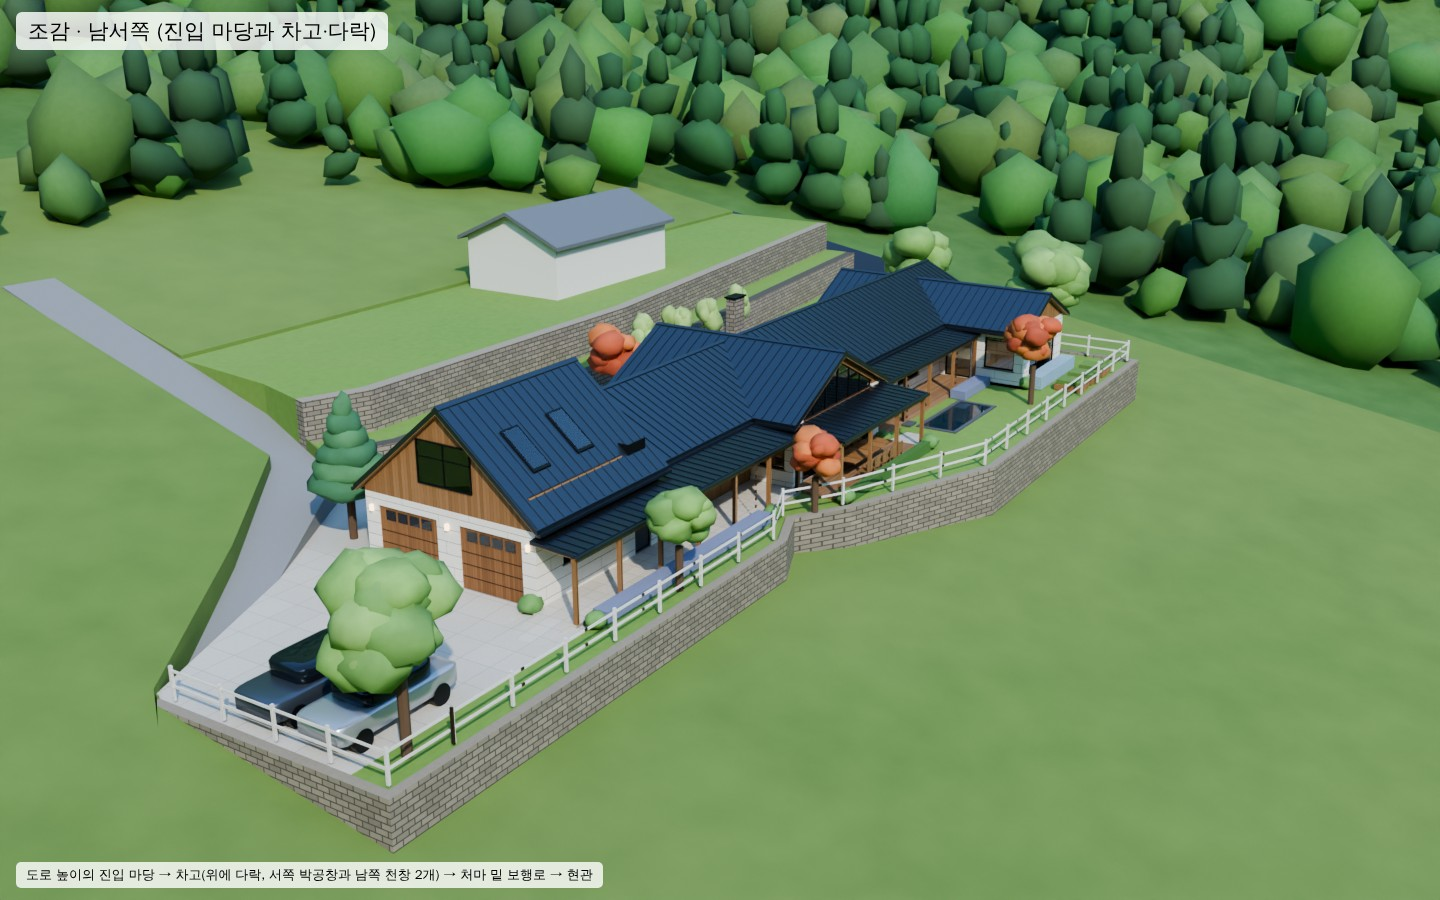
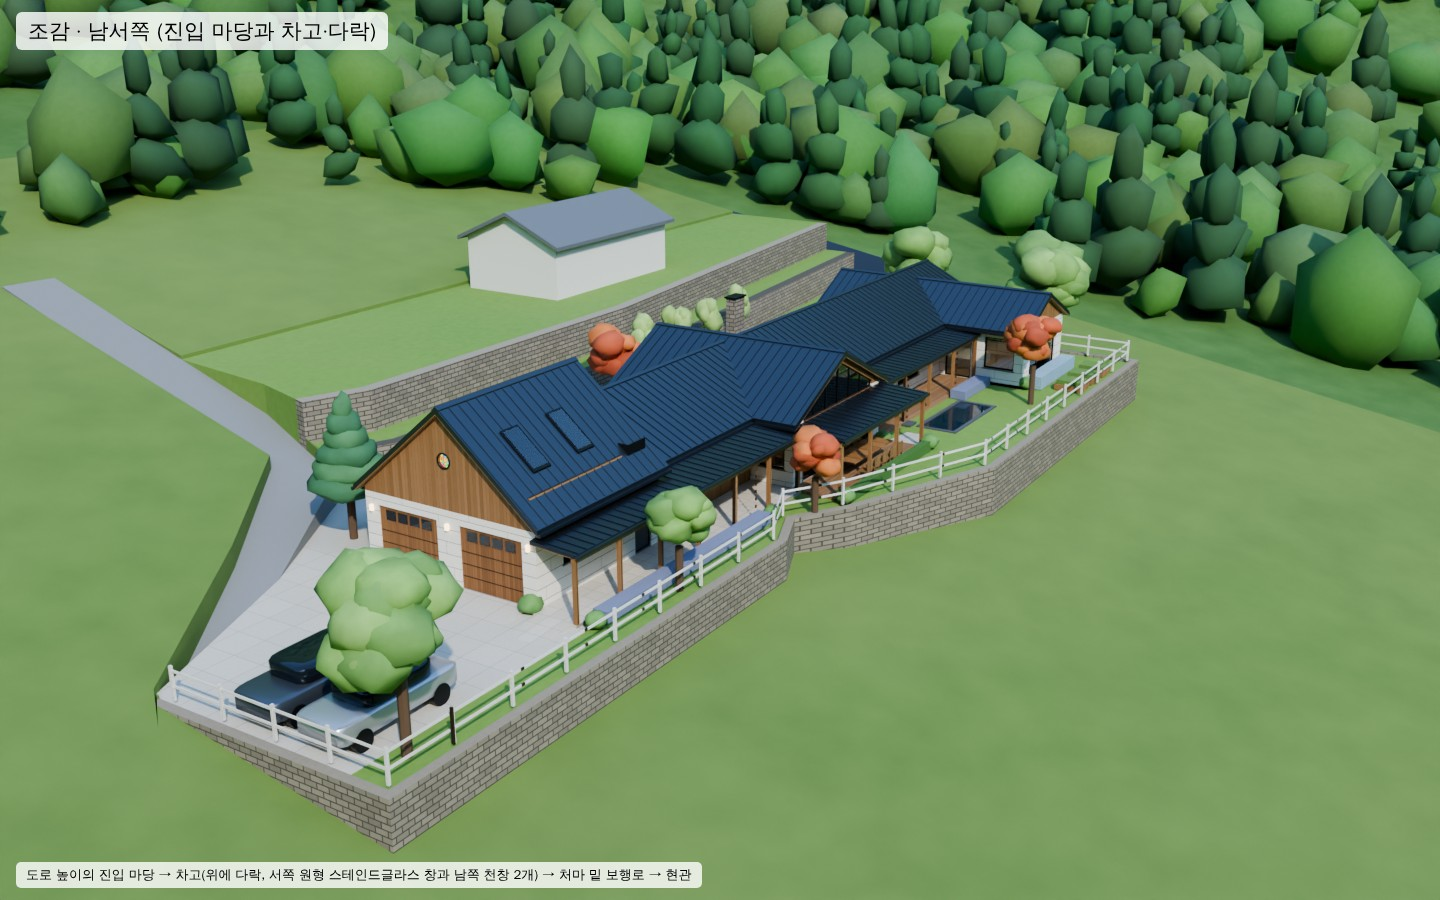
Plan C: round stained-glass attic window (50 cm) and close-up view
Claude-Session: https://claude.ai/code/session_01V2KT19EFwobJ5RF8mtFq11

Changed region(s): [[0.2188, 0.9333, 0.5, 0.9956], [0.2812, 0.4667, 0.3438, 0.56]]

diff --git a/house-redesign/C안/src/blender/scene.py b/house-redesign/C안/src/blender/scene.py
@@ -298,6 +298,41 @@ def car(x0, y0, mat):
             bpy.ops.mesh.primitive_cylinder_add(radius=0.34, depth=0.24, location=(x0 + dx, y0 + dy, 2.85 + 0.36), rotation=(math.pi / 2, 0, 0)); bpy.context.object.data.materials.append(MATS['frame'])
 car(-17.2, -12.3, 'car'); car(-17.2, -14.8, 'car2')
 
+# ------------------------------------------------------------------ 다락 원형 스테인드글라스 (지름 500mm)
+def stained_glass():
+    m, nt, b = new_mat('stained')
+    tc = N(nt, 'ShaderNodeTexCoord'); sp_ = N(nt, 'ShaderNodeSeparateXYZ'); nt.links.new(tc.outputs['Object'], sp_.inputs[0])
+    x, y = sp_.outputs[0], sp_.outputs[1]
+    r = math_(nt, 'SQRT', math_(nt, 'ADD', math_(nt, 'MULTIPLY', x, x), math_(nt, 'MULTIPLY', y, y)))
+    ang = math_(nt, 'ADD', math_(nt, 'DIVIDE', math_(nt, 'ARCTAN2', y, x), 2 * math.pi), 0.5)
+    rr = math_(nt, 'DIVIDE', r, 0.084); ring = math_(nt, 'FLOOR', rr)
+    nsec = math_(nt, 'MULTIPLY', ring, 6.0)                                   # 고리마다 0, 6, 12 조각
+    sv = math_(nt, 'ADD', math_(nt, 'MULTIPLY', ang, nsec), math_(nt, 'MULTIPLY', ring, 0.5))
+    sec = math_(nt, 'FLOOR', sv)
+    wn = N(nt, 'ShaderNodeTexWhiteNoise', noise_dimensions='1D'); nt.links.new(math_(nt, 'ADD', math_(nt, 'MULTIPLY', ring, 31.0), math_(nt, 'MULTIPLY', sec, 7.0)), wn.inputs['W'])
+    hsv = N(nt, 'ShaderNodeCombineColor', mode='HSV'); nt.links.new(wn.outputs['Value'], hsv.inputs[0]); hsv.inputs[1].default_value = 0.85; hsv.inputs[2].default_value = 0.9
+    col = mixc(nt, math_(nt, 'LESS_THAN', ring, 0.5), hsv.outputs[0], (1.0, 0.62, 0.12))    # 가운데는 호박색
+    fs = math_(nt, 'FRACT', sv)
+    lead_s = math_(nt, 'MULTIPLY', math_(nt, 'MAXIMUM', math_(nt, 'LESS_THAN', fs, 0.05), math_(nt, 'GREATER_THAN', fs, 0.95)), math_(nt, 'GREATER_THAN', ring, 0.5))
+    fr = math_(nt, 'FRACT', rr)
+    lead_r = math_(nt, 'MULTIPLY', math_(nt, 'MAXIMUM', math_(nt, 'LESS_THAN', fr, 0.07), math_(nt, 'GREATER_THAN', fr, 0.93)), math_(nt, 'GREATER_THAN', rr, 0.5))
+    lead = math_(nt, 'MAXIMUM', lead_s, lead_r)
+    tr = N(nt, 'ShaderNodeBsdfTransparent'); nt.links.new(col, tr.inputs[0])
+    em = N(nt, 'ShaderNodeEmission'); nt.links.new(col, em.inputs[0]); em.inputs[1].default_value = 0.9
+    ad = N(nt, 'ShaderNodeAddShader'); nt.links.new(tr.outputs[0], ad.inputs[0]); nt.links.new(em.outputs[0], ad.inputs[1])
+    df = N(nt, 'ShaderNodeBsdfDiffuse'); df.inputs[0].default_value = (0.02, 0.02, 0.02, 1)
+    mx = N(nt, 'ShaderNodeMixShader'); nt.links.new(lead, mx.inputs[0]); nt.links.new(ad.outputs[0], mx.inputs[1]); nt.links.new(df.outputs[0], mx.inputs[2])
+    nt.links.new(mx.outputs[0], nt.nodes['Material Output'].inputs['Surface'])
+    MATS['stained_em'] = em
+    return m
+SGM = stained_glass()
+bpy.ops.mesh.primitive_cylinder_add(radius=0.25, depth=0.016, vertices=72, location=(-6.9, -9.4, 5.95 + 1.5), rotation=(0, math.pi / 2, 0))
+bpy.context.object.data.materials.append(SGM); GROUP_OBJS.setdefault('Roof', []).append(bpy.context.object)
+for xr in (-7.005, -6.745):
+    bpy.ops.mesh.primitive_torus_add(major_radius=0.265, minor_radius=0.03, major_segments=72, minor_segments=12, location=(xr, -9.4, 5.95 + 1.5), rotation=(0, math.pi / 2, 0))
+    o = bpy.context.object; o.data.materials.append(MATS['frame']); GROUP_OBJS['Roof'].append(o)
+    for p_ in o.data.polygons: p_.use_smooth = True
+
 # ------------------------------------------------------------------ 하늘·해·실내등
 w = bpy.data.worlds.new('W'); sc.world = w; w.use_nodes = True
 wnt = w.node_tree; bg = wnt.nodes['Background']; sky = wnt.nodes.new('ShaderNodeTexSky'); sky.sky_type = 'MULTIPLE_SCATTERING'
@@ -343,6 +378,7 @@ for v in json.load(open(VIEWS)):
         set_sun(v.get('az', 222), v.get('el', 40), 4.2, 0.30); lp, ls = 40.0, 3.0
     for L, pw in LIGHTS: L.data.energy = lp * pw
     MATS['lamp'].node_tree.nodes['Principled BSDF'].inputs['Emission Strength'].default_value = ls
+    MATS['stained_em'].inputs[1].default_value = 6.0 if mode == 'dusk' else (0.25 if mode == 'interior' else 0.9)
     sc.view_settings.exposure = v.get('exposure', 0.0)
     sc.cycles.samples = int(SAMPLES * v.get('sm', 1.0))
     sc.render.filepath = os.path.join(OUT, v['file'] + '.png')

diff --git a/house-redesign/C안/src/geom2.py b/house-redesign/C안/src/geom2.py
@@ -292,9 +292,6 @@ for k in range(16):
 add('Attic_Rail_W', '1F', 'frame', B(-1165, 8700, -1125, 12700), AT_FL, AT_FL + 1000)
 add('Attic_Rail_S', '1F', 'frame', B(-1165, 12700, -125, 12740), AT_FL, AT_FL + 1000)
 GPN = [0.0, -TAN_G, EAVE_G + TAN_G * (-5600)]; GPS = [0.0, TAN_G, EAVE_G + TAN_G * 13200]
-add('Attic_Window_Glass', 'Roof', 'glass', B(-7030, 8200, -7005, 10600), AT_FL + 600, AT_FL + 2050)
-for (d0, d1, z0, z1) in [(8200, 10600, 540, 600), (8200, 10600, 2050, 2110), (8200, 8260, 600, 2050), (10540, 10600, 600, 2050), (9375, 9425, 600, 2050), (8200, 10600, 1500, 1540)]:
-    add('Attic_Window_Frame', 'Roof', 'frame', B(-7050, d0, -7000, d1), AT_FL + z0, AT_FL + z1, minarea=300)
 for k, u0 in enumerate((-5600, -3200)):                                # 남측 지붕 천창 2개
     add(f'Skylight_{k + 1}_Frame', 'Roof', 'frame', B(u0, 10700, u0 + 900, 12100), sh(GPS, RT), sh(GPS, RT + 70))
     add(f'Skylight_{k + 1}_Glass', 'Roof', 'glass', B(u0 + 70, 10770, u0 + 830, 12030), sh(GPS, RT + 70), sh(GPS, RT + 90))
@@ -311,26 +308,21 @@ for (u, d, ox, oy) in [(-7000, 9400, -1, 0), (-7000, 5900, -1, 0), (-7000, 12900
     x, y = u + ox * 45, -d + oy * 45
     add('WallLamp', '1F', 'lamp', box(x - 60, y - 60, x + 60, y + 60) if True else None, FL + 2000, FL + 2220, minarea=300)
 
-# 다락 서측 박공벽에 창 개구부 내기
-_newP = []
-WIN = B(-7100, 8200, -6700, 10600)
-for p in P:
+# 다락 서측 박공벽에 지름 500mm 원형 창 개구부 (세로 띠로 근사, 유리와 창틀은 렌더러에서 추가)
+RW_C, RW_Z, RW_R = 9400, AT_FL + 1500, 250
+_old = list(P); P[:] = []
+for p in _old:
     xs_ = [q[0] for q in p['p']]
-    if p['g'] == 'Roof' and p['m'] == 'siding_wood' and min(xs_) >= -7001 and max(xs_) <= -6749:
-        poly = Polygon(p['p'])
-        keep, cut = poly.difference(WIN), poly.intersection(WIN)
-        n0 = len(P)
-        if not keep.is_empty: _newP.append(('k', p, keep))
-        if not cut.is_empty: _newP.append(('c', p, cut))
-    else:
-        _newP.append(('o', p, None))
-P[:] = []
-for kind, p, geom in _newP:
-    if kind == 'o': P.append(p)
-    elif kind == 'k': add(p['n'], p['g'], p['m'], geom, p['zb'], p['zt'])
-    else:
-        add(p['n'] + '_UnderWin', p['g'], p['m'], geom, p['zb'], AT_FL + 600)
-        add(p['n'] + '_OverWin', p['g'], p['m'], geom, AT_FL + 2050, p['zt'])
+    if not (p['g'] == 'Roof' and p['m'] == 'siding_wood' and min(xs_) >= -7001 and max(xs_) <= -6749):
+        P.append(p); continue
+    poly = Polygon(p['p'])
+    add(p['n'], p['g'], p['m'], poly.difference(B(-7100, RW_C - RW_R, -6700, RW_C + RW_R)), p['zb'], p['zt'])
+    for k in range(10):
+        d0 = RW_C - RW_R + 50 * k
+        half = math.sqrt(max(RW_R ** 2 - (d0 + 25 - RW_C) ** 2, 0))
+        cut = poly.intersection(B(-7100, d0, -6700, d0 + 50))
+        add(p['n'] + f'_Under{k}', p['g'], p['m'], cut, p['zb'], RW_Z - half, minarea=300)
+        add(p['n'] + f'_Over{k}', p['g'], p['m'], cut, RW_Z + half, p['zt'], minarea=300)
 
 # ================================================================= 대지
 add('Hillside', 'Site', 'hill', HILL, -14000, NAT)

diff --git a/house-redesign/C안/src/plan2.py b/house-redesign/C안/src/plan2.py
@@ -115,7 +115,8 @@ def plan():
     s.append(R(-6750, 7980, -125, 10820, fill='#c4d9ec', stroke='#2e6fa8', stroke_width=14, stroke_dasharray='90,70'))
     s.append(R(-1125, 8700, -125, 12700, fill='#f3eee3', stroke='#777', stroke_width=14))
     for k in range(16): s.append(R(-1125, 12700 - 250 * k - 250, -125, 12700 - 250 * k, fill='none', stroke='#999', stroke_width=8))
-    s.append(R(-7000, 8200, -6750, 10600, fill='#2f8fd8'))
+    s.append(R(-7000, 9150, -6750, 9650, fill='#c8642a'))
+    s.append(tx(ox + 1250, oy + 3730, '원형 창 Ø500', 170, fill='#a04a18'))
     for u0 in (-5600, -3200): s.append(R(u0, 10700, u0 + 900, 12100, fill='#bfe0f5', stroke='#2f8fd8', stroke_width=20))
     for (a, b_, c, d_) in [(-6700, 8600, -6000, 10200), (-4600, 8000, -2400, 8900), (-6600, 6300, -1500, 6700), (-6600, 12300, -1500, 12700)]:
         s.append(R(a, b_, c, d_, fill='none', stroke='#8b8b8b', stroke_width=14))
